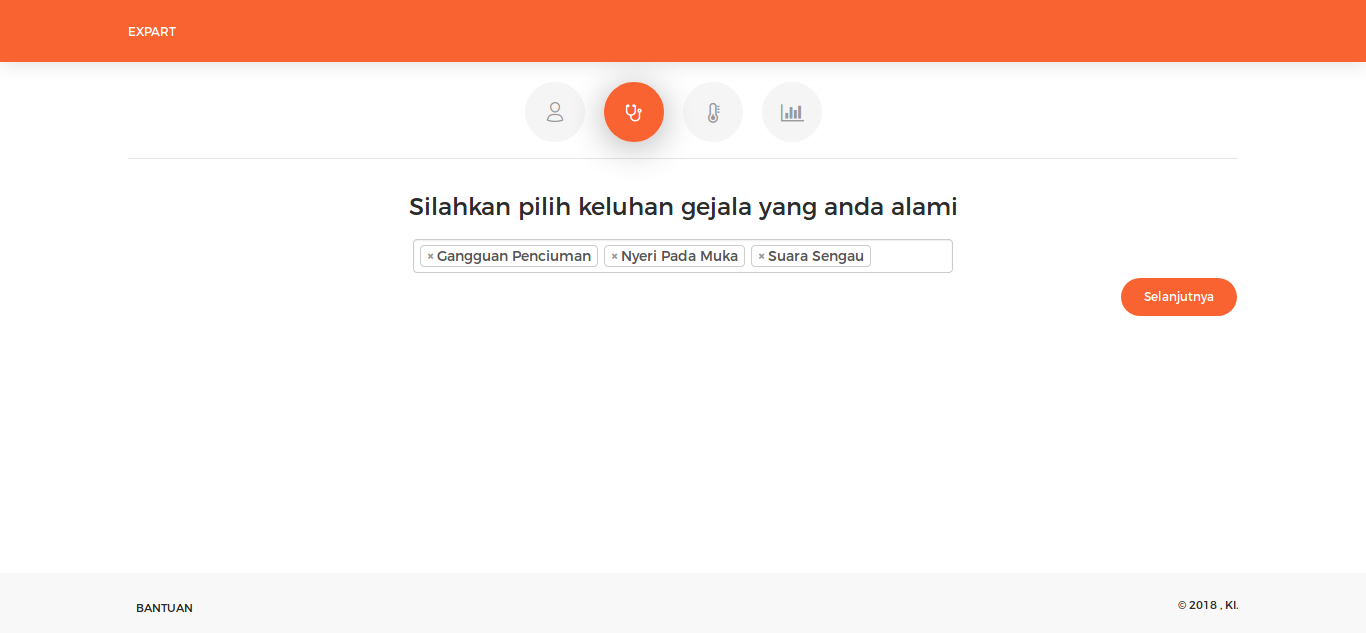
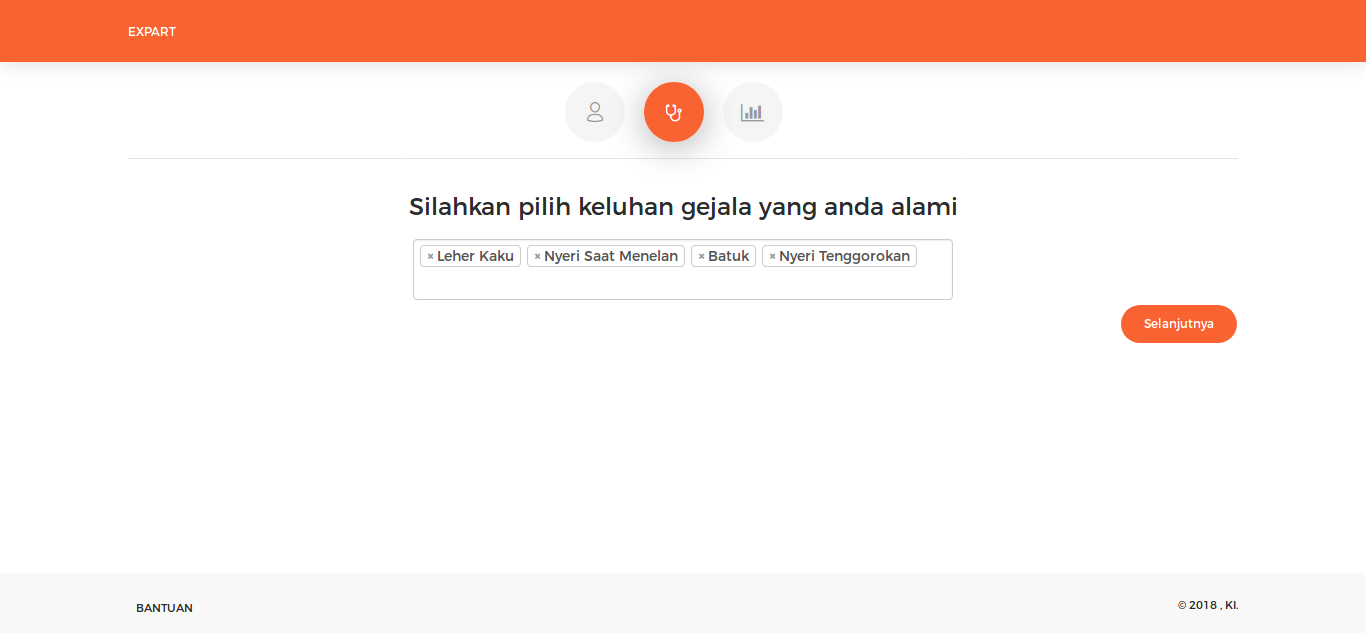
add branch with no intensity. completed that branch

Changed region(s): [[0.3997, 0.1201, 0.5842, 0.2401], [0.7994, 0.4202, 0.9224, 0.5403], [0.3075, 0.3902, 0.6764, 0.4202]]

diff --git a/templates/guest/consult/consult.html b/templates/guest/consult/consult.html
@@ -18,12 +18,6 @@
         <i class="fa fa-stethoscope"></i>
       </a>
     </li>
-    <li class="nav-item" data-toggle="tooltip" data-placement="bottom" title="Intensitas setiap gejala">
-      <a class="nav-link {{ ('', 'active')[step == 'intensitas'] }}"
-         href="{{ url_for('consult.index') }}?step=intensitas">
-        <i class="fa fa-thermometer-1"></i>
-      </a>
-    </li>
     <li class="nav-item" data-toggle="tooltip" data-placement="bottom" title="Laporan hasil diagnosa">
       <a class="nav-link {{ ('', 'active')[step == 'laporan'] }}"
          href="{{ url_for('consult.index') }}?step=laporan">
@@ -37,9 +31,6 @@
   {% endif %}
   {% if step == 'gejala' %}
     {% include 'guest/consult/pilih-gejala.html' %}
-  {% endif %}
-  {% if step == 'intensitas' %}
-    {% include 'guest/consult/pilih-intensitas.html' %}
   {% endif %}
   {% if step == 'laporan' %}
     {% include 'guest/consult/report.html' %}
@@ -67,7 +58,7 @@
         data: {
           labels: labels,
           datasets: [{
-            label: '# Nilai probabilitas penyakit',
+            label: '# Persentase keyakinan',
             data: data,
             backgroundColor: [
               'rgba(255, 99, 132, 0.2)',
@@ -95,6 +86,19 @@
                 beginAtZero: true
               }
             }]
+          },
+          tooltips: {
+            callbacks: {
+              label: function (tooltipItem, data) {
+                var label = data.datasets[tooltipItem.datasetIndex].label || '';
+
+                if (label) {
+                  label += ': ';
+                }
+                label += Math.round(tooltipItem.yLabel) + "%";
+                return label;
+              }
+            }
           }
         }
       });

diff --git a/templates/help.html b/templates/help.html
@@ -30,7 +30,6 @@
         <ol>
           <li>Data pribadi</li>
           <li>Pilih gejala</li>
-          <li>Pilih intensitas</li>
           <li>Hasil diagnosa</li>
         </ol>
         <h4>1. Data Pribadi</h4>
@@ -45,17 +44,7 @@
           Anda</p>
         <img src="{{ url_for('static', filename='bantuan/gejala.png') }}" alt="pilih gejala" class="rounded img-raised">
         <label for="" class="content-description"><b>Gambar 3</b> Halaman pilih gejala</label>
-        <p>Setelah Anda mengisi gejala-gejala yang Anda alami, kemudian klik selanjut untuk berlanjut ke tahap
-          berikutnya.</p>
-        <h4>3. Pilih Intensitas</h4>
-        <p>Pada halaman ini Anda diminta untuk memberi intensitas terhadap setiap gejala yang Anda alami.</p>
-        <img src="{{ url_for('static', filename='bantuan/intensitas.png') }}" alt="pilih intensitas"
-             class="rounded img-raised">
-        <label for="" class="content-description"><b>Gambar 4</b> Pilih intensitas masing-masing gejala yang
-          dialami</label>
-        <p>Setalah Anda memilih intensitas untuk setiap gejala, kemudian klik tombok berikutnya untuk melihat laporan
-          diagnosa yang Anda alami</p>
-        <h4>4. Hasil Diagnosa</h4>
+        <h4>3. Hasil Diagnosa</h4>
         <p>Pada halam ini anda akan melihat laporan diagnosa penyakit anda sesuai gejala yang anda pilih</p>
         <img src="{{ url_for('static', filename='bantuan/report.png') }}" alt="laporan diagnosa"
              class="rounded img-raised">

diff --git a/templates/guest/consult/report.html b/templates/guest/consult/report.html
@@ -5,14 +5,13 @@
   <h4 align="center">Hasil Diagnosa</h4>
   <div class="row">
     <div class="col-sm-5 mx-auto">
-      Kemungkinan penyakit terbesar dengan pasien bernama <b>{{ result.profile.nama }}</b> dengan gejala:
+      Kemungkinan penyakit dengan pasien bernama <b>{{ result.profile.nama }}</b> dengan gejala:
       <ol>
         {% for gejala in result.gejala_user %}
-          <li><b>{{ gejala[0] }}</b> dengan intensitas {{ gejala[1] }}</li>
+          <li><b>{{ gejala[0] }}</b></li>
         {% endfor %}
       </ol>
-      adalah <a href="#" class="card-link">{{ result.penyakit }}</a> dengan
-      kategori {{ result.kategori }}
+      adalah <a href="#" class="card-link">{{ result.penyakit }}</a>
     </div>
   </div>
   <br>

diff --git a/views/guest/consult.py b/views/guest/consult.py
@@ -31,25 +31,26 @@ def index():
     result = {}
 
     if step == 'laporan':
-        try:
-            report_ = report()
-            penyakit_query = Penyakit.query
-            conclusion = report_.conclusions()
-            probability = report_.probability()
-            map_probability_to_array = [(list(x.keys())[0], list(x.values())[0]) for x in probability]
-            penyakits_with_possibility = list(conclusion[0].keys())[0]
-            kategori = list(conclusion[0].values())[0][1]
-            penyakit = penyakit_query.get(penyakits_with_possibility)
-            all_penyakit = penyakit_schema.dumps(Penyakit.query.all()).data
-            profile = session['profile']
-            intensitas_copy = session['intensitas'].copy()
-            intensitas_copy.pop('step')
-            gejala_user = [(Gejala.query.get(x).nama, intensitas_copy[x]) for x in intensitas_copy.keys()]
-            result = {'penyakit': penyakit.nama, 'kategori': kategori, 'probability': probability,
-                      'penyakits': all_penyakit,
-                      'pr': map_probability_to_array, 'profile': profile, 'gejala_user': gejala_user}
-        except Exception:
-            result = {}
+        report_ = report()
+        penyakit_query = Penyakit.query
+        conclusions = report_.conclusions()
+        probability = report_.probability()
+        map_probability_to_array = [(list(x.keys())[0], list(x.values())[0]) for x in probability]
+        highest_possibility_penyakit_id = list(conclusions[0].keys())[0]
+        highest_possibility_penyakit_kategori = list(conclusions[0].values())[0][1]
+        penyakit = penyakit_query.get(highest_possibility_penyakit_id)
+        all_penyakit = penyakit_schema.dumps(Penyakit.query.all()).data
+        profile = session['profile']
+        intensitas_copy = session['intensitas'].copy()
+        intensitas_copy.pop('step', None)
+        gejala_user = [(Gejala.query.get(x).nama, intensitas_copy[x]) for x in intensitas_copy.keys()]
+        result = {'penyakit': penyakit.nama,
+                  'kategori': highest_possibility_penyakit_kategori,
+                  'probability': probability,
+                  'penyakits': all_penyakit,
+                  'pr': map_probability_to_array,
+                  'profile': profile,
+                  'gejala_user': gejala_user}
 
     return render_template('guest/consult/consult.html', step=step, model=model, data=step_data, gejala=gejala,
                            gejala_s=gejala_s, result=result)
@@ -76,7 +77,7 @@ def done():
     data = session.get('profile')
     model_id = session.get('model-id')
     intensity_ = session.get('intensitas')
-    intensity_.pop('step')
+    intensity_.pop('step', None)
     data.update({'history': {'model': model_id, 'intensity': intensity_}})
     db.session.add(Patients(data))
     db.session.commit()
@@ -88,6 +89,8 @@ def done():
 
 def report():
     model_by_rule = RuleModel.query.get_or_404(session['model-id'])
+    gejalas = session.get('gejala')
+    session['intensitas'] = {x: 'mean' for x in gejalas}
     gejala_intensity = session.get('intensitas')
     selected_model = model_by_rule.model_
     return ProbabilityCounter(gejala_intensity, selected_model)
@@ -95,6 +98,5 @@ def report():
 
 steps = {
     'profile': 'gejala',
-    'gejala': 'intensitas',
-    'intensitas': 'laporan'
+    'gejala': 'laporan'
 }

diff --git a/calculator/probability_counter.py b/calculator/probability_counter.py
@@ -1,10 +1,9 @@
-from calculator import isbetween
-from models.intensity import intensity, category
+from models.intensity import intensity
 
 
 class ProbabilityCounter:
     def __init__(self, intensitas_gejala, model):
-        self.gejala_weighted = {x: intensity.get(intensitas_gejala.get(x), 0) for x in intensitas_gejala.keys()}
+        self.gejala_weighted = {str(x): intensity.get(intensitas_gejala.get(x), 0) for x in intensitas_gejala.keys()}
         self.set_gejala = set(self.gejala_weighted.keys())
         self.model = model
 
@@ -23,8 +22,5 @@ class ProbabilityCounter:
         return sorted(self.probability(), key=lambda item: -list(item.values())[0])
 
     def conclusions(self):
-        return [{list(y.keys())[0]:
-                     (list(y.values())[0],
-                      list(filter(lambda x:
-                                  isbetween(list(y.values())[0], x[1]),
-                                  category))[0][0])} for y in self.sort_probability_desc()]
+        return [{list(y.keys())[0]: (list(y.values())[0], 'Mean')
+                 } for y in self.sort_probability_desc()]

diff --git a/models/intensity.py b/models/intensity.py
@@ -2,6 +2,7 @@ intensity = {
     "ringan": 30,
     "sedang": 60,
     "berat": 90,
+    "mean": 100
 }
 
 category = (
